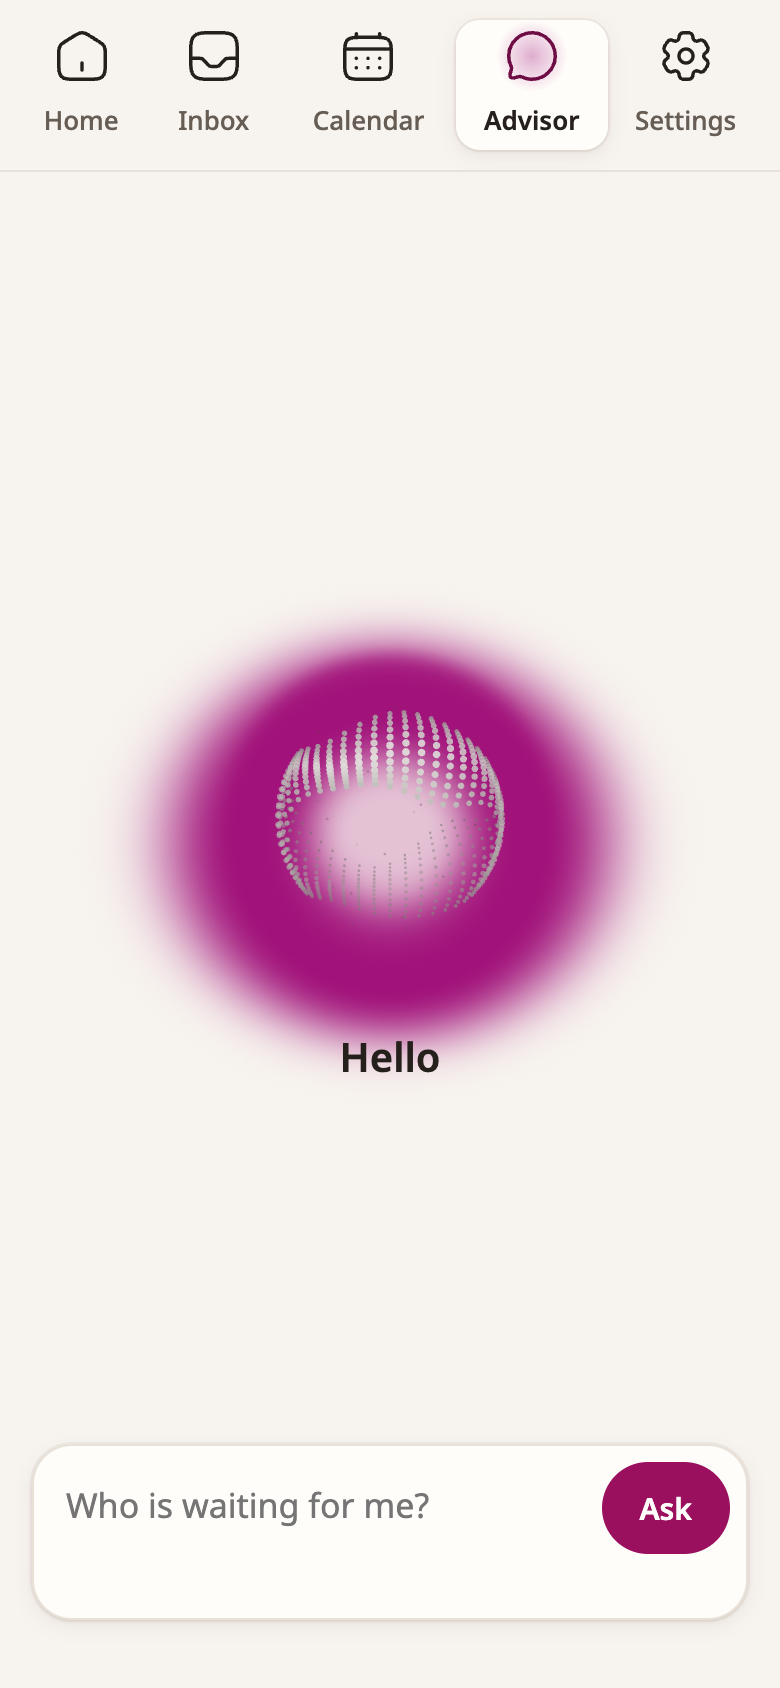
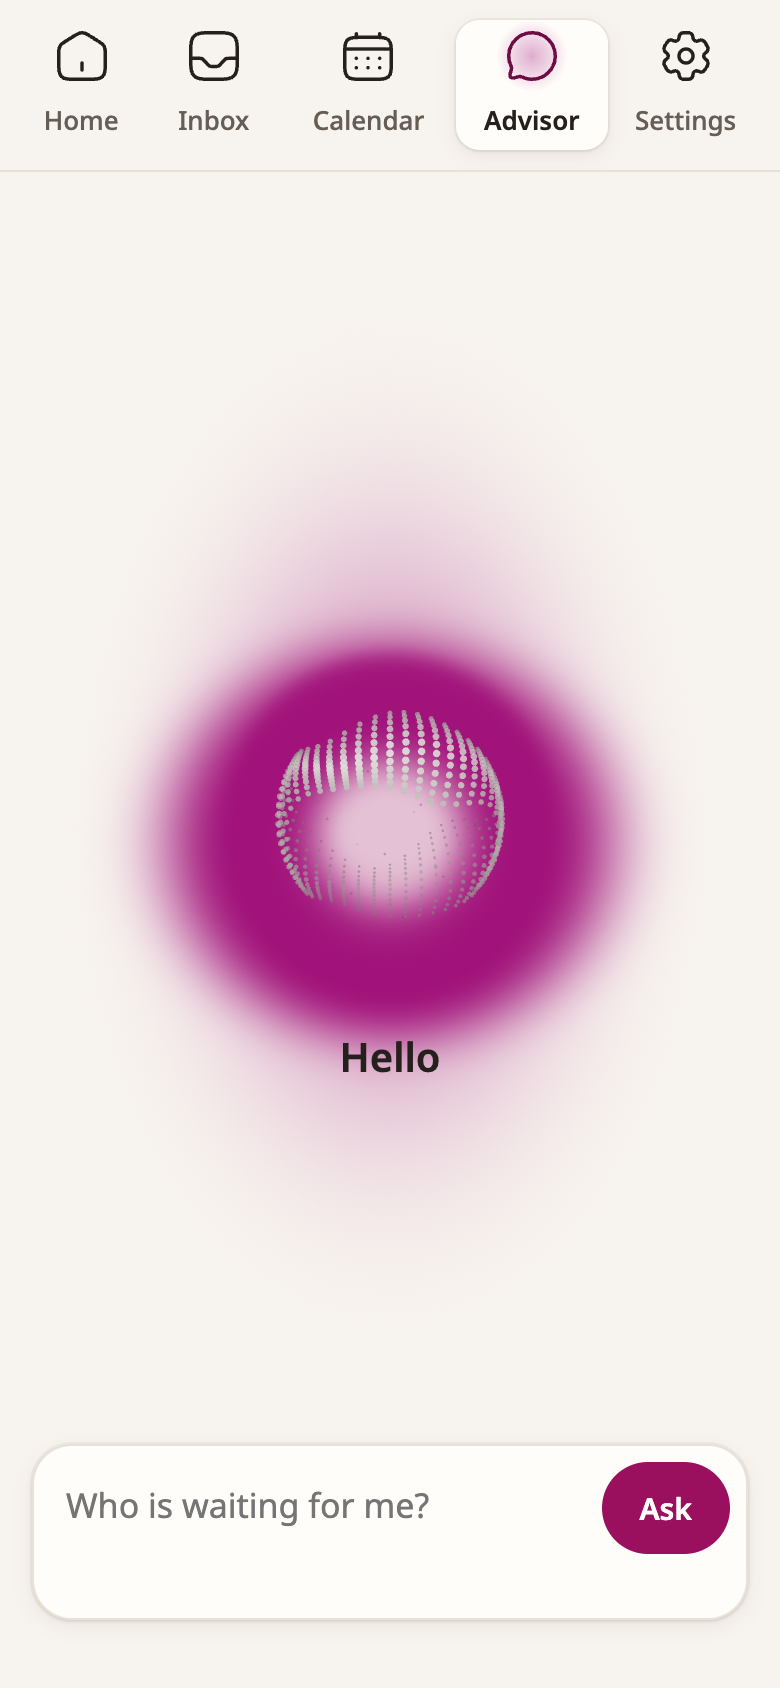
The orb's light carried across the page: a faint tint under the ring, reaching the column's sides, the page's top and the composer (not merged: the owner's)
On the owner's word (2026-10-10): the centre, the ring and the near fall stay exactly as they were; under them a
second, faint light (at most 0.4 of the glow, laid on what the first leaves, rising with the ring so the middle
keeps its light) reaches as far as the page allows and falls gently all the way. Stretching the one light was
tried first and rejected: the deep magenta spread too and "Hello" sat on it at 2.2:1; now 4.5:1 (desktop), 3.4:1
(phone). The smootherstep is clamped to 1: past it, the tint's 1.5 power made two black pixels at its corners, and
a guard now holds every pixel of the light to the line from the paper to the glow. The near fall is pinned (a
slower one passed before). 76 guards broken on purpose, each caught.

diff --git a/src/api/web/liveScript.ts b/src/api/web/liveScript.ts
@@ -639,6 +639,8 @@ export const LIVE_SCRIPT = `/* Nomi: the line a page shows when something new ar
      behind the middle. Every step the smootherstep: no edge. Chosen by measure (docs/design/advisor-orb-ring). */
   var RING = [0.3, 1.25];
   var MIDDLE = 0.22;
+  /* The tint's depth at the orb. */
+  var TINT = 0.4;
   /* The halo's ring at rho: 0 in the middle, 1 at the ring, 0 at its reach. */
   function ringAt(rho, reach) {
     if (rho <= RING[0]) return 0;
@@ -658,12 +660,10 @@ export const LIVE_SCRIPT = `/* Nomi: the line a page shows when something new ar
     ctx.fillStyle = g;
     ctx.beginPath(); ctx.arc(c, c, R * o[1], 0, Math.PI * 2); ctx.fill();
   }
-  /* The lit field (the redesign, 2026-10-08): the orb's glow at its centre falling to nothing at the edges,
-     drawn pixel by pixel with half a step of noise in each channel, so the fall shows no bands; a pixel the
-     fall does not reach is left clear, and the paper shows. r: how far it reaches up, down, back and on.
-     o.depth: how deep at the centre; o.fall: how fast it falls (higher: sooner to the paper); o.clear: drawn as
-     the glow made thin, never as paper, for light that whatever passes beneath must show through. */
-  function smoother(x) { x = x <= 0 ? 0 : x >= 1 ? 1 : x; return x * x * x * (x * (x * 6 - 15) + 10); }
+  /* The lit field: drawn pixel by pixel with half a step of noise per channel, so no bands; a pixel it does not
+     reach is clear. r: its reach up, down, back and on; o.depth, o.fall; o.clear: the glow made thin, never paper;
+     o.ring, o.tint: the ring and the tint (2026-10-09, -10). */
+  function smoother(x) { x = x <= 0 ? 0 : x >= 1 ? 1 : x; return Math.min(1, x * x * x * (x * (x * 6 - 15) + 10)); }
   function wash(canvas, cx, cy, r, o) {
     var paper = o.paper;
     var glow = o.glow;
@@ -678,18 +678,25 @@ export const LIVE_SCRIPT = `/* Nomi: the line a page shows when something new ar
     var d = img.data;
     var seed = 2463534242;
     function noise() { seed ^= seed << 13; seed ^= seed >>> 17; seed ^= seed << 5; return (seed >>> 0) / 4294967296; }
+    var far = o.tint ? o.tint.r : r;
     for (var y = 0; y < H; y++) {
       var dy = (y + 0.5) / dpr - cy;
+      var my = dy / (dy < 0 ? far.up : far.down);
+      my *= my;
+      if (my >= 1) continue;
       var ny = dy / (dy < 0 ? r.up : r.down);
       ny *= ny;
-      if (ny >= 1) continue;
       for (var x = 0; x < W; x++) {
         var dx = (x + 0.5) / dpr - cx;
+        var mx = dx / (dx < 0 ? far.back : far.on);
+        var m = mx * mx + my;
+        if (m >= 1) continue;
         var nx = dx / (dx < 0 ? r.back : r.on);
         var q = nx * nx + ny;
-        if (q >= 1) continue;
-        var t;
-        if (o.ring) {
+        var t = 0;
+        if (q >= 1) {
+          t = 0;
+        } else if (o.ring) {
           var rho = Math.sqrt(dx * dx + dy * dy);
           if (rho <= o.ring.deep) {
             t = o.depth * (o.ring.middle + (1 - o.ring.middle) * smoother((rho - o.ring.light) / (o.ring.deep - o.ring.light)));
@@ -700,6 +707,11 @@ export const LIVE_SCRIPT = `/* Nomi: the line a page shows when something new ar
           }
         } else {
           t = Math.pow(1 - smoother(Math.sqrt(q)), o.fall) * o.depth;
+        }
+        if (o.tint) {
+          var e = o.tint.depth * Math.pow(1 - smoother(Math.sqrt(m)), o.tint.fall);
+          if (o.ring) e *= smoother((Math.sqrt(dx * dx + dy * dy) - o.ring.light) / (o.ring.deep - o.ring.light));
+          t += (1 - t) * e;
         }
         var at = (y * W + x) * 4;
         if (o.clear) {
@@ -848,15 +860,18 @@ export const LIVE_SCRIPT = `/* Nomi: the line a page shows when something new ar
       var cx = o.left + o.width / 2 - a.left;
       var cy = o.top + o.height / 2 - a.top;
       var side = Math.min(cx, a.width - cx) - 8;
-      /* Close round the orb (its canvas holds a margin of half its size, so its radius is a third of the
-         canvas): a soft presence the paper holds, never a cloud that fills the page. Wider than it is tall. */
+      /* Close round the orb; under it a TINT across the page (2026-10-10) to the column's sides, the top and the
+         bar, never past them. The orb's radius is a third of its canvas. */
       var orb = o.width / 3;
       var wide = Math.max(48, Math.min(side, orb * 2.6));
       var tall = orb * 2.1;
-      var down = Math.min(b.top - a.top - cy - 24, tall);
+      var reach = b.top - a.top - cy - 24;
+      var down = Math.min(reach, tall);
       if (down < 48) return;
+      var all = Math.max(48, side);
       wash(field, cx, cy, { up: Math.max(48, Math.min(cy - 8, tall)), down: down, back: wide, on: wide },
-        { depth: 1, fall: 3, paper: paper, glow: glow, ring: ringFor(orb, MIDDLE) });
+        { depth: 1, fall: 3, paper: paper, glow: glow, ring: ringFor(orb, MIDDLE),
+          tint: { r: { up: Math.max(48, cy - 8), down: reach, back: all, on: all }, depth: TINT, fall: 1.5 } });
     }
     function litPool() {
       if (!pool || !here || !paper || !glow) return;

diff --git a/tests/parity/advisor-orb.test.ts b/tests/parity/advisor-orb.test.ts
@@ -458,8 +458,8 @@ describe('the lit field and the pool (the redesign; the ring, 2026-10-09): deepe
       expect(rr === needs.r && gg === needs.g && bb === needs.b).toBe(false);
       expect(gg).toBeGreaterThanOrEqual(glow.g - 2);
     }
-    // where it fades out it is the paper itself, to a step: no seam where it ends
-    const near = px(img, 900 - 2 * 246, 528);
+    // where it fades out (near the column's side, 442 css px out) it is the paper itself, to a step: no seam where it ends
+    const near = px(img, 900 - 2 * 436, 528);
     expect(near[3]).toBe(255);
     expect(Math.abs(near[0] - paper.r) + Math.abs(near[1] - paper.g) + Math.abs(near[2] - paper.b)).toBeLessThanOrEqual(6);
   });
@@ -489,21 +489,45 @@ describe('the lit field and the pool (the redesign; the ring, 2026-10-09): deepe
     expect(corner).toBeLessThan(0.11);
   });
 
-  it('the field keeps close and soft: the paper holds the page, the glow a presence round the orb, never a cloud', async () => {
+  it('the field carries the light across the page (the owner, 2026-10-10): the same light close round the orb, and a gentle tint on beyond it', async () => {
     const p = page({ reduce: true });
     p.run(); await p.load();
     const img = p.field.ctx.images.at(-1)!;
     const glow = hex(TOKENS.orbGlow); const paper = hex(TOKENS.paper);
-    // the orb is 192 px (its canvas 288): across, nothing past 2.6 of its radii (250 px); up and down, past 2.1 (202 px)
-    for (const x of [900 - 2 * 254, 900 + 2 * 254]) expect(px(img, x, 528)[3], `x ${x}`).toBe(0);
-    expect(px(img, 900, 528 - 2 * 206)[3]).toBe(0);
-    expect(px(img, 900, 528 + 2 * 206)[3]).toBe(0);
-    // the ring is round the orb, and half an orb further out it is already more paper than glow
-    const lit = (x: number) => (paper.g - px(img, x, 528)[1]) / (paper.g - glow.g);
-    expect(lit(900 + 2 * 100)).toBeGreaterThan(0.9);
-    expect(lit(900 + 2 * 150)).toBeLessThan(0.45);
-    // (no share of the page is counted: the owner, 2026-10-09 — judged by the middle's dots and a calm page; the
-    // numbers it must keep are where it stops: before the composer, and short of the nav)
+    const lit = (x: number, y: number) => { const q = px(img, 900 + 2 * x, 528 + 2 * y); return q[3] ? (paper.g - q[1]) / (paper.g - glow.g) : 0; };
+    // close round the orb, as before: the ring's deepest at its edge, and falling after it at its own pace (the
+    // redesign's three; slower, a fall of two, reads 0.68, 0.28 and 0.33 at these three)
+    expect(lit(100, 0)).toBeGreaterThan(0.9);
+    expect(lit(150, 0)).toBeGreaterThan(0.52); expect(lit(150, 0)).toBeLessThan(0.62);
+    expect(lit(0, -150)).toBeGreaterThan(0.13); expect(lit(0, -150)).toBeLessThan(0.22);
+    expect(lit(0, 150)).toBeGreaterThan(0.19); expect(lit(0, 150)).toBeLessThan(0.28);
+    expect(lit(200, 0)).toBeLessThan(0.3);
+    // beyond, where the light used to end (2.6 of the orb's radii across, 250 px): a gentle tint, carried on
+    expect(lit(250, 0)).toBeGreaterThan(0.04);
+    expect(lit(250, 0)).toBeLessThan(0.2);
+    expect(lit(300, 0)).toBeGreaterThan(0.01);
+    expect(lit(-300, 0)).toBeGreaterThan(0.01);
+    expect(lit(0, -150)).toBeGreaterThan(0.08);
+    // and paper again before the column's sides
+    expect(lit(430, 0)).toBeLessThan(0.01);
+    expect(lit(-430, 0)).toBeLessThan(0.01);
+  });
+
+  it('every pixel of the light lies on the line from the paper to the glow: never a colour of its own, never a black pixel', async () => {
+    for (const [fieldWidth, width, bar] of [[900, 288, 600], [360, 216, 600], [900, 288, 420]] as const) {
+      const p = page({ reduce: true, fieldWidth, width, barTop: bar });
+      p.run(); await p.load();
+      const img = p.field.ctx.images.at(-1)!;
+      const glow = hex(TOKENS.orbGlow); const paper = hex(TOKENS.paper);
+      let off = 0;
+      for (let y = 0; y < img.height; y++) for (let x = 0; x < img.width; x++) {
+        const [r, g, b, a] = px(img, x, y);
+        if (!a) continue;
+        const t = (paper.g - g) / (paper.g - glow.g);
+        if (t < -0.05 || t > 1.05 || Math.abs(r - (paper.r + (glow.r - paper.r) * t)) + Math.abs(b - (paper.b + (glow.b - paper.b) * t)) > 12) off += 1;
+      }
+      expect(off, `${fieldWidth}/${bar}`).toBe(0);
+    }
   });
 
   it('the light never reaches the nav: clear for 8 px inside its own canvas on both sides and at the top, and that canvas is the main column\'s own box, beside the rail and under the nav row', async () => {

diff --git a/docs/design/advisor-orb-ring/README.md b/docs/design/advisor-orb-ring/README.md
@@ -59,41 +59,63 @@ The near (light) dots stay clear against the lighter middle. The far ink dots ca
   - the field forgetting the ring;
   - a straight, cornered rise.
 
+## Bigger: a tint carried across the page (the owner, 2026-10-10)
+
+"Spread the magenta wider across the surface so it carries the theme across the page … Keep the centre as it is
+now … Still one continuous fall-off … fade out before the composer and never reach the nav rail."
+
+- **The centre and the ring are exactly as before:**
+  - the same light middle (22 in 100 of the glow);
+  - the same #A1127A ring just outside the dots;
+  - the same quick fall close round the orb.
+- **Under it, a second, faint light (the tint):**
+  - **Strength:** at most 0.4 of the glow, laid on whatever the first light leaves.
+  - **Reach:** as far as the page allows — the column's sides, the page's top, and the composer — falling gently
+    all the way.
+  - **Not behind the middle:** it rises with the ring, so the middle keeps its light.
+- **One continuous fall:** the tint adds smoothly, every join is the smootherstep, and no pixel is off the line from
+  the paper to the glow (a guard).
+- **A first try was rejected:** stretching the one light further spread the deep magenta as well. "Hello" then sat
+  on the glow itself, at 2.2:1. The tint keeps the deep part where it was.
+
+**"Hello" against the light behind it, at worst:** 4.5:1 on a desktop and 3.4:1 on a phone. Both pass the 3:1 large
+text needs.
+
+**A bug found and fixed on the way:** the smootherstep could return a hair above 1 at the light's edge. Raised to
+the tint's 1.5 power, that made two black pixels at its corners. It is clamped now, and the guard that every pixel
+lies on the paper-to-glow line holds it.
+
 ## Where the light stops, measured in a real browser
 
-The owner's two limits (2026-10-09): the wash stops before the composer, and never reaches the nav. Read from the
-light's own pixels on the empty page:
+The owner's two limits: the wash stops before the composer, and never reaches the nav. Read from the light's own
+pixels, the outermost a hair from paper:
 
 | | Short of the rail (desktop) or the nav row (phone) | Above the composer |
 |---|---|---|
-| Desktop, 1280 × 800 | 287 px | 132 px |
-| 13-inch laptop, 1280 × 720 | 287 px | 92 px |
-| Phone, 390 wide | 184 px | 150 px |
-| Phone, 360 wide | 132 px | 98 px |
+| Desktop, 1280 × 800 | 24 px | 40 px |
+| 13-inch laptop, 1280 × 720 | 24 px | 40 px |
+| Phone, 390 wide | 24 px | 12 px |
+| Phone, 360 wide | 24 px | 12 px |
 
-On a phone the column's own sides stop it, 8 px inside the screen. The guards hold all of it:
-- the wash clear 8 px inside its canvas on both sides and at the top (a 360 px phone included);
-- that canvas exactly main's own box;
-- every pixel from the bar's line down clear.
+What holds it:
+- **At the sides:** the light ends 8 px inside its canvas, which is main's own box, and main sits beside the rail.
+- **At the top:** it ends 8 px under the page's top, which is below the nav row on a phone.
+- **At the bottom:** every pixel from the bar's line down is clear.
 
-No share of the page is counted. The owner: judge it by whether the middle dots are visible and the page still
-looks calm.
+The guards hold all of it (a 360 px phone included).
 
-## My read
-
-- **The middle dots are visible.** The far ink dots, lost before, show against the lighter middle.
-- **Calm is the owner's call.** The ring is a larger, more saturated magenta mass than the old light. On a phone
-  "Hello" sits just under its fading edge. If it should be quieter, the ring can be narrower or less deep; the
-  middle keeps its light either way.
+No share of the page is counted. The owner: judge it by whether the page feels lit with the theme and stays calm.
 
 ## Files
 
 - **Start here:**
   - `ring-resting-{desktop,phone}-en-closeup.png`: the resting orb, close up (192 px; 144 on a phone).
   - `ring-empty-page-{desktop,phone}-en.png`: the whole empty page.
-- `ring-resting-{desktop,phone}-en-wide.png`: the orb and its ring with room round them.
-- `ring-thinking-{desktop,phone}-en-closeup.png`: the thinking orb beside the bar, in its pool.
-- `ring-light-alone-desktop-en.png`: the light alone (the orb's file blocked: no dots), to judge the ring itself.
-- `before-ring-resting-desktop-en-closeup.png`: the same close-up before this change (#266).
+- `ring-resting-{desktop,phone}-en-wide.png`: the orb and its light with room round them.
+- `ring-light-alone-desktop-en.png`: the light alone (the orb's file blocked: no dots), to judge the ring, the tint
+  and the fall.
+- `ring-thinking-{desktop,phone}-en-closeup.png`: the thinking orb beside the bar, in its pool (no tint there).
+- `before-tint-ring-*`: the ring before the tint (2026-10-09).
+- `before-ring-resting-desktop-en-closeup.png`: before the ring (#266).
 
 The `empty-*` files in `../advisor-orb-dots/` are #266's, before the ring.
